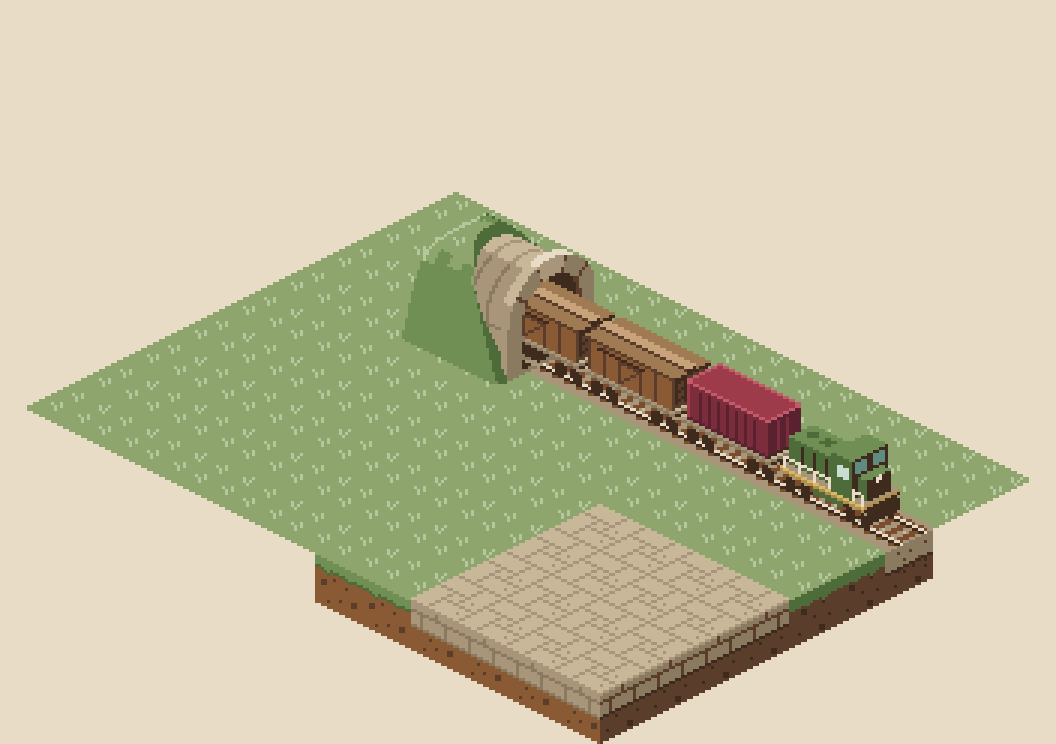
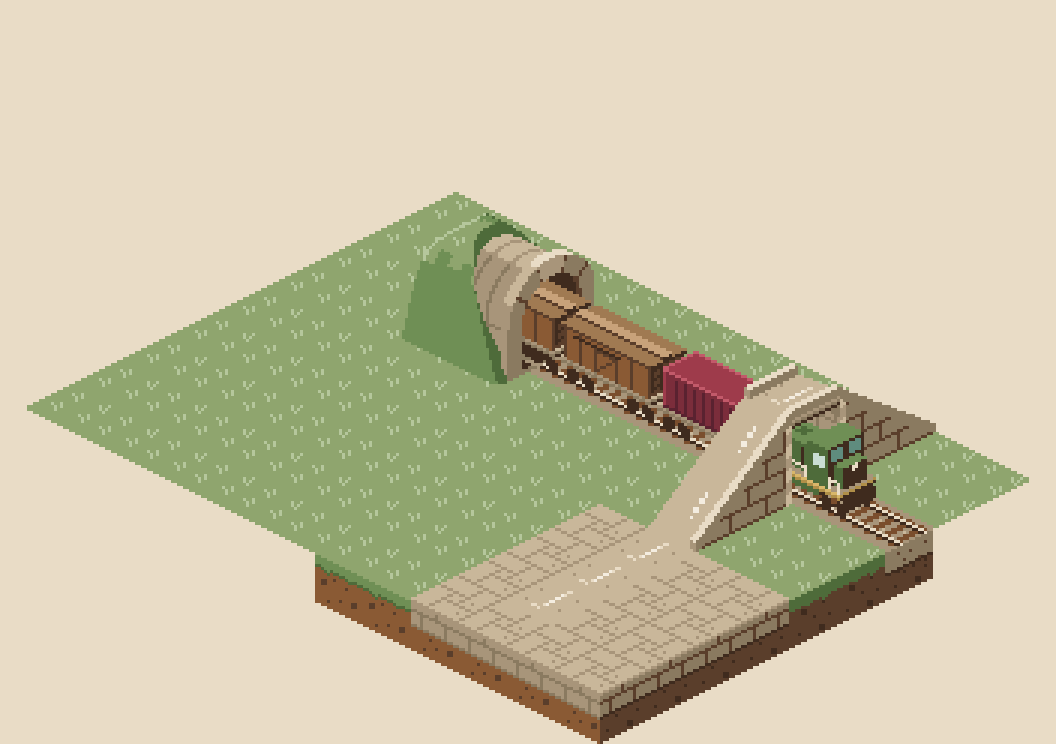
art: road overpass over the railway for the island level up

Changed region(s): [[0.4688, 0.4019, 0.9062, 0.8347]]

diff --git a/docs/intents/2026-10-island-level-up/art-brief.md b/docs/intents/2026-10-island-level-up/art-brief.md
@@ -105,3 +105,4 @@ A pose is its own object named `<name>-<pose>`, with the same anchor: `extends` 
 - `locomotive` is 40×34, anchor [20, 26], dark green (`grass-3`/`grass-4`, `soil-4` front) with a `gold` frame stripe: 28 units long, 12 wide, cab top at z 22, its frame at the flatcar's deck height (z 7–9), the same wheels and couplers. A `flatcar` coupled behind it sits at the locomotive's px + (−32, −16), two tiles up-left along the col axis.
 - `boxcar` is 42×38, anchor [21, 30], brown (`soil-2` sides, `wood-2` roof, `wood-1` walkway) on the flatcar's own frame, roof top at z 21, level with the container; it couples behind a `flatcar` at the flatcar's px + (−32, −16). The train is boxcar, flatcar with container, locomotive, two tiles apart along the col axis.
 - `tunnel-rail` (back: the dark bore and a jamb strip) and `tunnel-rail-front` (the hill, vault, arch ring and left jamb) are both 64×57 with anchor [34, 41], placed on the same tile at the track's up-left end. The mouth is 16 units down-right of the anchor (the centre of tile [col + 1, row]); its opening is 20 wide with the crown at z 28. Paint order: `tunnel-rail`, then every car inside or crossing the mouth, then `tunnel-rail-front`. A car shows only once its front reaches the mouth. About 5.2 KB raw for the pair (a lean version without ribs is 3.8 KB).
+- `bridge-road` is a girder deck (road top z 28, underside z 25, 3 px over the locomotive's cab) on the track tile [C, R], carried by `bridge-road-ramp` on [C, R+1] and `bridge-road-ramp-far` on [C, R−1], 2-tile stone embankments rising 14 px per tile, with plain ground cubes under them and ground-level `path` from [C, R±3] on. Paint the far ramp before the train and the deck and near ramp after it. A flat truck would float on the ramps, so trucks stay off them unless the owner decides otherwise.
